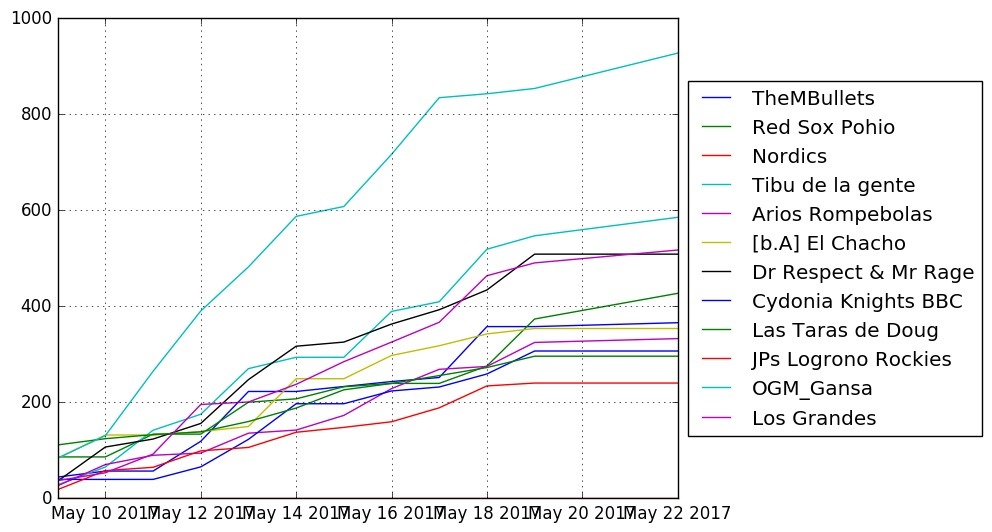
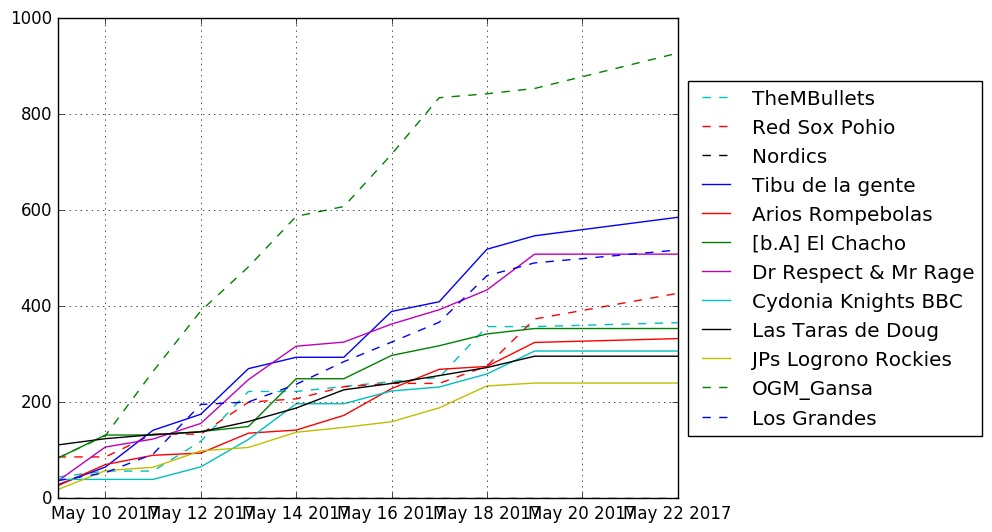
Updated ploting colors and save to folder

diff --git a/src/plot.py b/src/plot.py
@@ -18,6 +18,33 @@ team_names = {"1" : "Tibu de la gente",
               "11": "TheMBullets",
               "12": "Nordics" }
 
+plot_linestyles =  {"1" : "",
+                    "2" : "",
+                    "3" : "",
+                    "4" : "",
+                    "5" : "",
+                    "6" : "",
+                    "7" : "",
+                    "8" : "--",
+                    "9" : "--",
+                    "10": "--",
+                    "11": "--",
+                    "12": "--" }
+
+
+plot_colors =  {"1" : "b",
+                "2" : "g",
+                "3" : "r",
+                "4" : "c",
+                "5" : "m",
+                "6" : "y",
+                "7" : "k",
+                "8" : "b",
+                "9" : "g",
+                "10": "r",
+                "11": "c",
+                "12": "k" }
+
 
 json_dic = open("data/ci_accum_by_date.json", "r")
 data = json.load(json_dic)
@@ -62,13 +89,13 @@ ax = fig.add_subplot(111)
 
 for key in team_names:
     print team_names[key]
-    ax.plot(date, teams[key][1:], label=team_names[key].decode('unicode-escape'))
+    ax.plot(date, teams[key][1:], plot_linestyles[key], color=plot_colors[key], label=team_names[key].decode('unicode-escape'), markersize=10)
 
 handles, labels = ax.get_legend_handles_labels()
 lgd = ax.legend(handles, labels, loc='center left', bbox_to_anchor=(1,0.5))
 ax.grid('on')
 
-fig.savefig('../img/ci_figure.jpg', bbox_extra_artists=(lgd,), bbox_inches='tight')
+fig.savefig('/home/joser/Workspace/FANTASY/coeficienteiturria.github.io/img/ci_figure.jpg', bbox_extra_artists=(lgd,), bbox_inches='tight')
 
 
 #legend = ax.legend(loc='center left', bbox_to_anchor=(1, 0.5)) #(loc='upper center', shadow=True)
